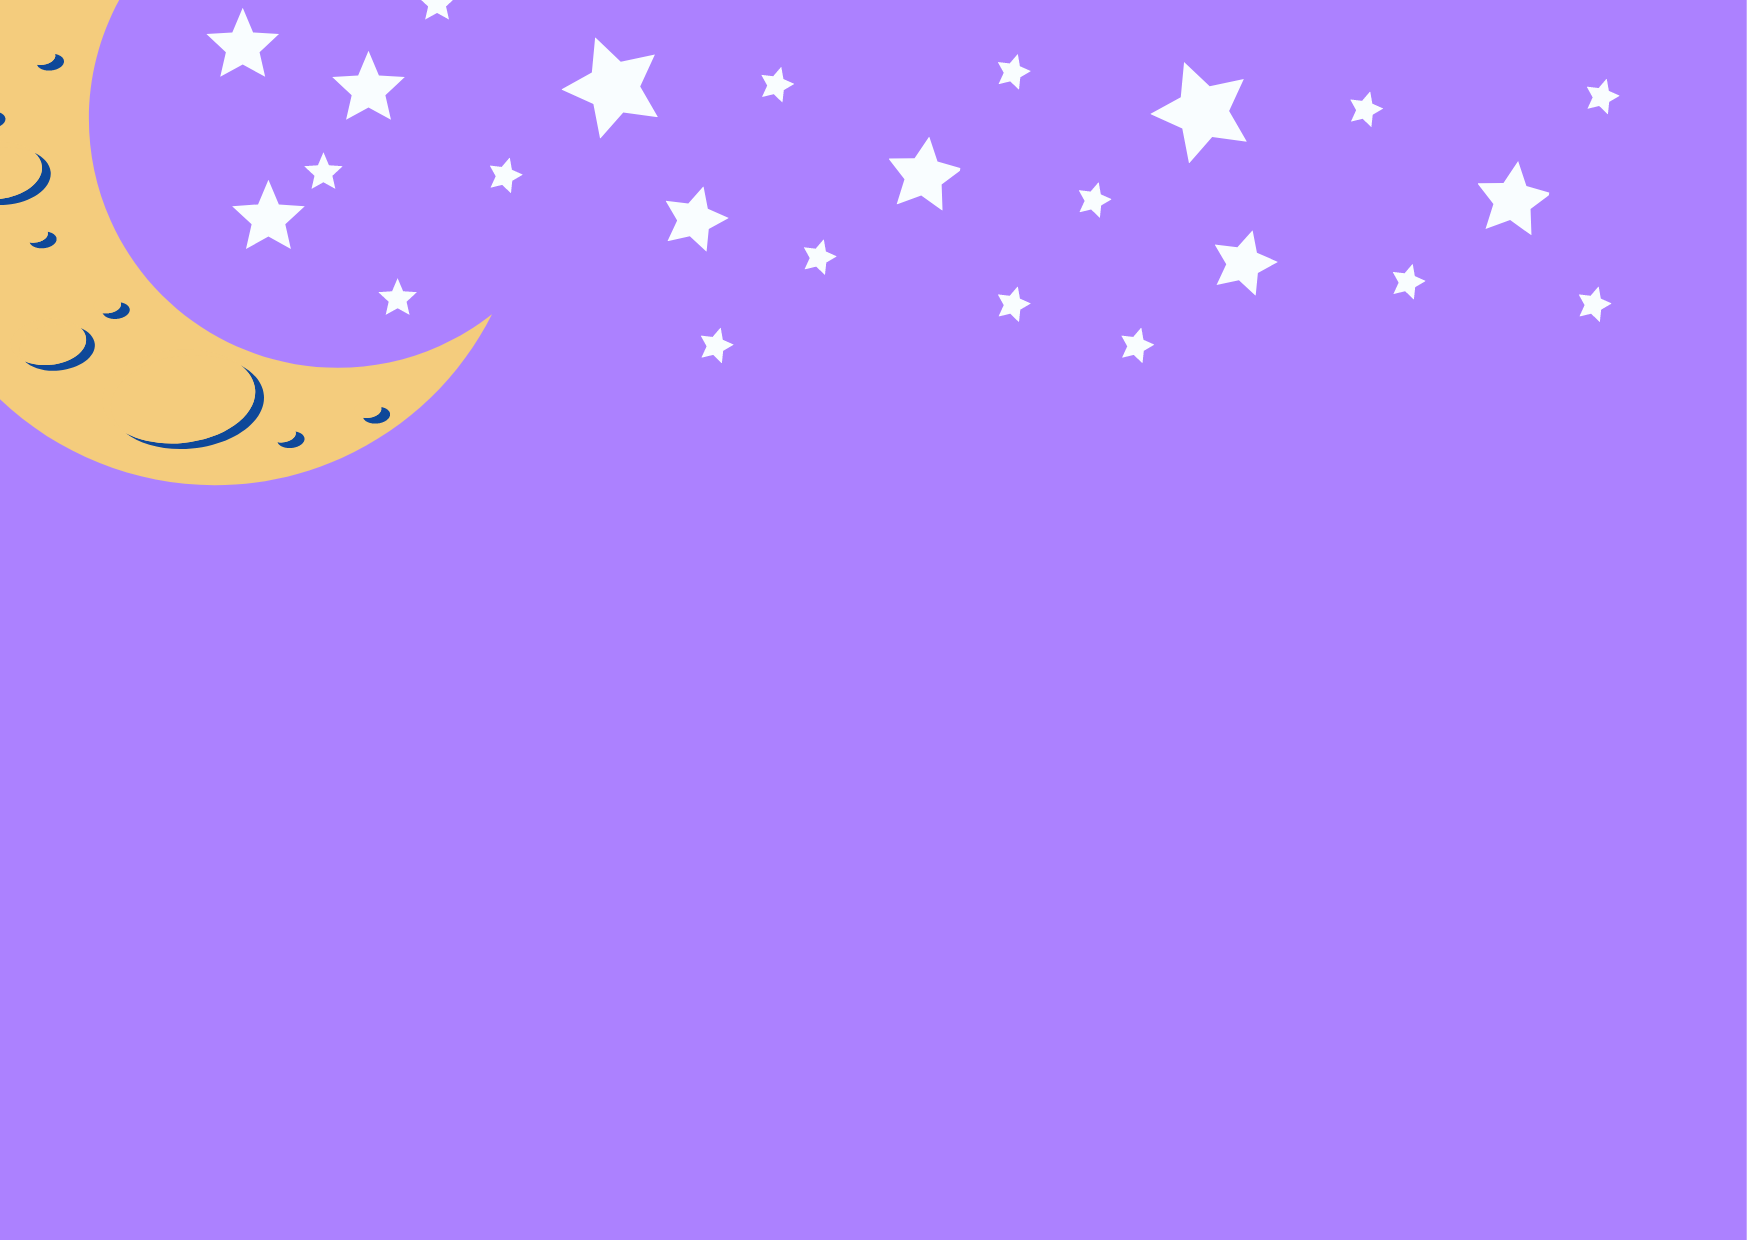
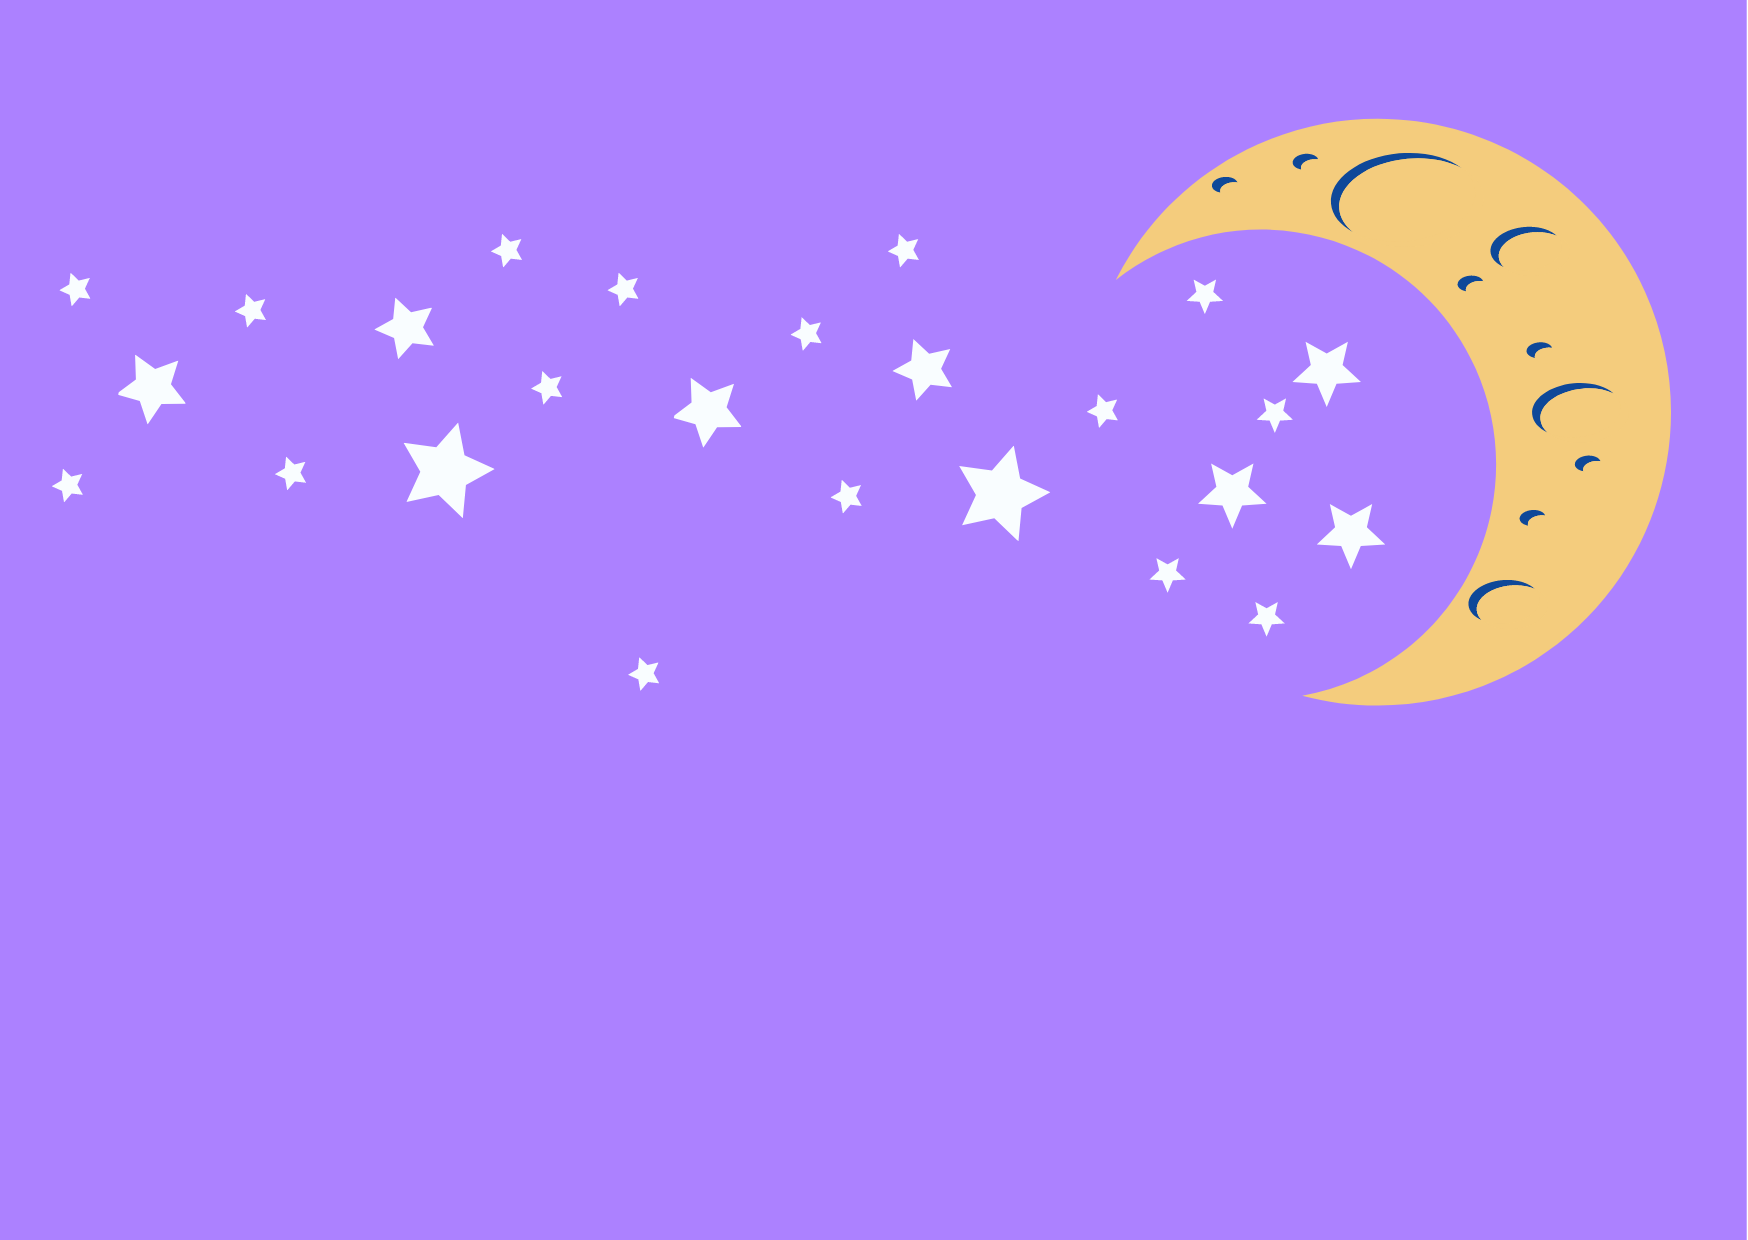
fixed positioning of footer

diff --git a/react-app/src/components/EntryForm/entryform.js b/react-app/src/components/EntryForm/entryform.js
@@ -32,7 +32,7 @@ const EntryForm = ()=>{
     return(
         <Flex >
             <SideBar />
-            <Flex width="87%" margin="auto" mt='2.5vh' direction="column" background="gray.100" p={12} rounded={12}>
+            <Flex width="auto" margin="auto" mt='2.5vh' direction="column" background="gray.100" p={12} rounded={12}>
                 <form onSubmit={submitEntry}>
                     <div>
                         <label htmlFor="title">Title</label>

diff --git a/react-app/src/components/EntryForm/UpdateEntry.js b/react-app/src/components/EntryForm/UpdateEntry.js
@@ -49,7 +49,7 @@ const UpdateEntry =()=>{
     return(
         <Flex>
             <SideBar/>
-                <Flex width="87%" mt="2.5vh" margin="auto" direction="column" background="gray.100" p={12} rounded={12}>
+                <Flex width="auto" mt="2.5vh" margin="auto" direction="column" background="gray.100" p={12} rounded={12}>
                     <Flex justify="flex-end">
                         <DeleteEntryIcon />
                     </Flex>

diff --git a/react-app/src/index.css b/react-app/src/index.css
@@ -1,4 +1,7 @@
 /* TODO Add site wide styles */
 body{
-    font-family: -apple-system, BlinkMacSystemFont, 'Segoe UI', Roboto, Oxygen, Ubuntu, Cantarell, 'Open Sans', 'Helvetica Neue', sans-serif
+    font-family: -apple-system, BlinkMacSystemFont, 'Segoe UI', Roboto, Oxygen, Ubuntu, Cantarell, 'Open Sans', 'Helvetica Neue', sans-serif;
+    padding-bottom: 100px;
+    padding-right: 0;
+    margin: 0;
 }

diff --git a/react-app/src/components/SideBar/sidebar.js b/react-app/src/components/SideBar/sidebar.js
@@ -41,7 +41,7 @@ const SideBar = () =>{
 
     return(
         <Flex pos="sticky"
-         h="auto" ml={2}
+         h="90vh" ml={2}
         marginTop="2.5vh"
         w="200px"
         borderRadius='md'

diff --git a/react-app/src/components/auth/auth.css b/react-app/src/components/auth/auth.css
@@ -3,3 +3,8 @@ body{
     background-size: cover !important;
     background-repeat: no-repeat !important;
 }
+
+body > img{
+    -webkit-transform: scaleX(-1);
+    transform: scaleX(-1);
+}
